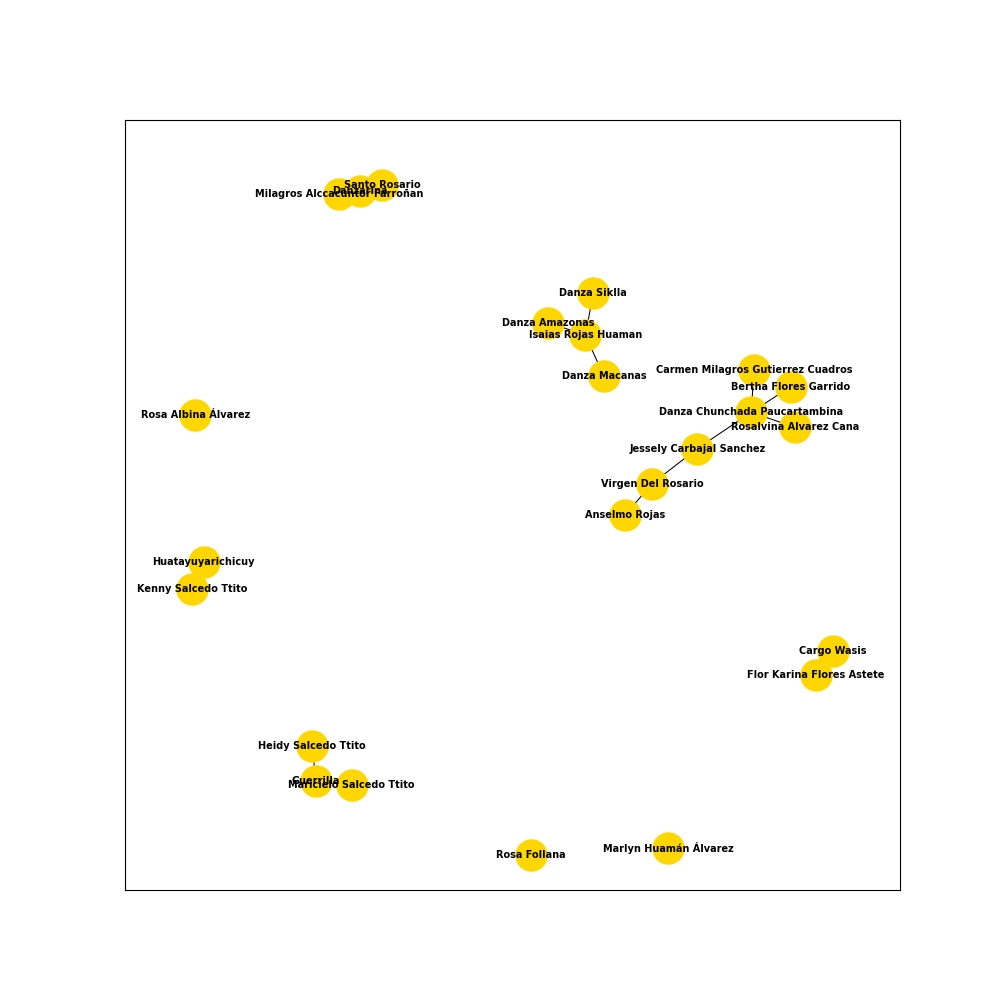
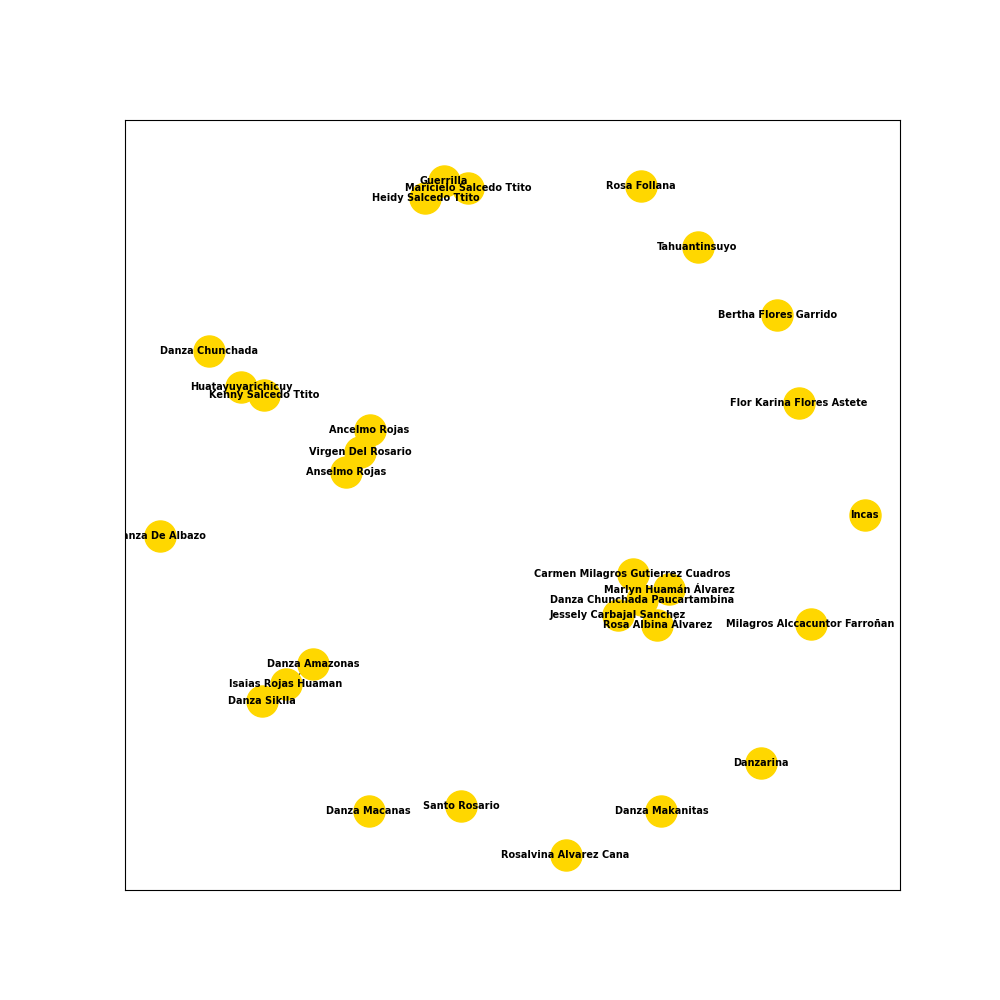
RAG

diff --git a/RAG.py b/RAG.py
@@ -1,0 +1,142 @@
+# -*- coding: utf-8 -*-
+"""
+Created on Wed Nov  6 15:26:55 2024
+
+@author: jveraz
+"""
+
+import networkx as nx
+import json
+import faiss
+import numpy as np
+import openai
+import os
+from dotenv import load_dotenv
+
+###########
+## GRAFO ##
+###########
+
+# leemos el grafo
+with open("networkx_graph/archivos/saved_graph.json", "r") as file:
+    data = json.load(file)
+
+# de vuelta a networkx
+nx_graph = nx.node_link_graph(data)
+
+################
+## EMBEDDINGS ##
+################
+
+# Cargar variables del archivo .env en desarrollo
+load_dotenv()
+
+# Acceder a la clave API
+openai.api_key = os.getenv("OPENAI_API_KEY")
+
+# Initialize the language model for answer generation
+#llm = ChatOpenAI(model_name="gpt-4")
+
+# Initialize a dictionary to store embeddings
+node_embeddings = {}
+
+# Generate embeddings for each node based on its content
+for node_id, node_data in nx_graph.nodes(data=True):
+    content = node_data.get("content", "")  # Assuming each node has a 'content' field
+    if content:
+        # Generate embedding using OpenAI's API
+        response = openai.Embedding.create(
+            input=content,
+            model="text-embedding-ada-002"  # Replace with appropriate embedding model
+        )
+        embedding = response['data'][0]['embedding']
+        node_embeddings[node_id] = np.array(embedding)  # Store as a numpy array
+
+##################
+## VECTOR STORE ##
+##################   
+
+
+# Convert embeddings to a numpy array for FAISS
+embedding_matrix = np.array(list(node_embeddings.values())).astype("float32")
+
+# Check the dimensionality of embeddings
+embedding_dim = embedding_matrix.shape[1] if embedding_matrix.size > 0 else 0
+if embedding_dim == 0:
+    raise ValueError("Embedding matrix is empty or embeddings have zero dimension.")
+
+# Create a FAISS index with the correct dimensionality
+index = faiss.IndexFlatL2(embedding_dim)
+index.add(embedding_matrix)  # Add the embeddings to the FAISS index
+
+# Map node IDs to embedding positions for retrieval
+node_id_to_index = {node_id: idx for idx, node_id in enumerate(node_embeddings.keys())}
+index_to_node_id = {idx: node_id for node_id, idx in node_id_to_index.items()}
+
+print("FAISS index created successfully with {} embeddings.".format(index.ntotal))
+
+
+#########
+## RAG ##
+#########
+
+def rag_query(query, top_k=5):
+    try:
+        # Step 1: Generate an embedding for the query using OpenAI's API
+        response = openai.Embedding.create(
+            input=query,
+            model="text-embedding-ada-002"
+        )
+        query_embedding = np.array(response['data'][0]['embedding']).astype("float32")
+    except Exception as e:
+        print(f"Error generating embedding for query: {e}")
+        return None
+
+    try:
+        # Step 2: Retrieve top-k most similar nodes from FAISS
+        distances, indices = index.search(np.array([query_embedding]), top_k)
+        retrieved_nodes = [index_to_node_id[idx] for idx in indices[0]]
+    except Exception as e:
+        print(f"Error retrieving nodes from FAISS index: {e}")
+        return None
+
+    try:
+        # Step 3: Concatenate content from the retrieved nodes as context
+        context = "\n".join(
+            nx_graph.nodes[node_id]["content"]
+            for node_id in retrieved_nodes
+            if "content" in nx_graph.nodes[node_id]
+        )
+    except KeyError as e:
+        print(f"Error accessing content for node {e}")
+        return None
+    except Exception as e:
+        print(f"Unexpected error during context construction: {e}")
+        return None
+
+    try:
+        # Step 4: Use the LLM to answer the query based on the retrieved context
+        messages = [
+            {"role": "system", "content": "You are an expert assistant."},
+            {"role": "user", "content": f"Context:\n{context}\n\nQuestion: {query}\nAnswer:"}
+        ]
+
+        # Use OpenAI ChatCompletion API to generate response
+        response = openai.ChatCompletion.create(
+            model="gpt-4",
+            messages=messages,
+            max_tokens=150
+        )
+        answer = response.choices[0].message['content'].strip()
+
+    except Exception as e:
+        print(f"Error generating response from LLM: {e}")
+        return None
+
+    return answer
+
+# Example usage
+response = rag_query("Qué es la danza Chunchada?")
+print(response)
+
+

diff --git a/networkx_graph/graph_networkx.py b/networkx_graph/graph_networkx.py
@@ -35,6 +35,7 @@ llm = ChatOpenAI(temperature=0, model_name="gpt-4")
 with open("archivos/video_processed.txt", "r", encoding="utf-8") as file:
     lines = file.read()
 
+
 ###########
 ## Grafo ##
 ###########
@@ -42,32 +43,36 @@ with open("archivos/video_processed.txt", "r", encoding="utf-8") as file:
 # documentos
 documents = [Document(page_content=lines)]
 
-# inicializar LLMGraphTransformer 
+# Initialize LLMGraphTransformer and create graph documents
 graph_transformer = LLMGraphTransformer(llm=llm)
+graph_documents = graph_transformer.convert_to_graph_documents(documents)
 
-# generar el grafo a partir de los documentos
-graph = graph_transformer.convert_to_graph_documents(documents)
+print(f"Nodes:{graph_documents[0].nodes}")
+print(f"Relationships:{graph_documents[0].relationships}")
 
-# grafo networkx
+# Create a NetworkX graph and add nodes and edges with content
 nx_graph = nx.Graph()
 
-# nodos
-for node in graph[0].nodes:
-    node_id = dict(node)['id']
-    if node_id:  # Ensure the node has a valid ID
-        nx_graph.add_node(node_id)
-        
-# aristas
-for edge in graph[0].relationships:
-    source = dict(dict(edge)['source'])['id']
-    target = dict(dict(edge)['target'])['id']
-    #attributes = dict(dict(edge))['type']
-    if source and target:
-        nx_graph.add_edge(source, target)#, **attributes)
+# Loop through graph_documents to add nodes and edges with 'content'
+for doc in graph_documents:
+    for node in doc.nodes:
+        node_id = dict(node)["id"]  # Access 'id' directly
+        content = dict(node)["type"]  # Access 'content' directly
+        #attributes = dict()#dict(node)["attributes"]  # Access 'attributes' directly
+        #attributes["content"] = content  # Ensure 'content' is stored in attributes
+        nx_graph.add_node(node_id, content=content)
 
+for doc in graph_documents:    
+    for edge in doc.relationships:
+        edge_dict = vars(edge) if not isinstance(edge, dict) else edge  # Convert to dict if necessary
+        source = str(dict(edge_dict["source"])["id"])  # Convert source to string
+        target = str(dict(edge_dict["target"])["id"])  # Convert target to string
+        print(source,target)
+        tipo = edge_dict["type"]
+        nx_graph.add_edge(source, target, content=tipo)
 
-# guardamos en json
-data = nx.node_link_data(nx_graph)  # Convert to dictionary format suitable for JSON
+# Save the graph with nodes and edges to JSON
+data = nx.node_link_data(nx_graph)
 with open("archivos/saved_graph.json", "w") as file:
     json.dump(data, file)
 

diff --git a/RAG2.py b/RAG2.py
@@ -1,0 +1,30 @@
+# -*- coding: utf-8 -*-
+"""
+Created on Wed Nov  6 18:10:37 2024
+
+@author: jveraz
+"""
+
+import networkx as nx
+import json
+import openai
+import faiss
+import numpy as np
+from langchain_openai import ChatOpenAI
+import os
+from dotenv import load_dotenv
+
+# Cargar variables del archivo .env en desarrollo
+load_dotenv()
+
+# Acceder a la clave API
+openai.api_key = os.getenv("OPENAI_API_KEY")
+
+try:
+    response = openai.Embedding.create(
+        input="What are the contributions of Marie Curie?",
+        model="text-embedding-ada-002"
+    )
+    print(response)
+except Exception as e:
+    print(f"Error: {e}")
